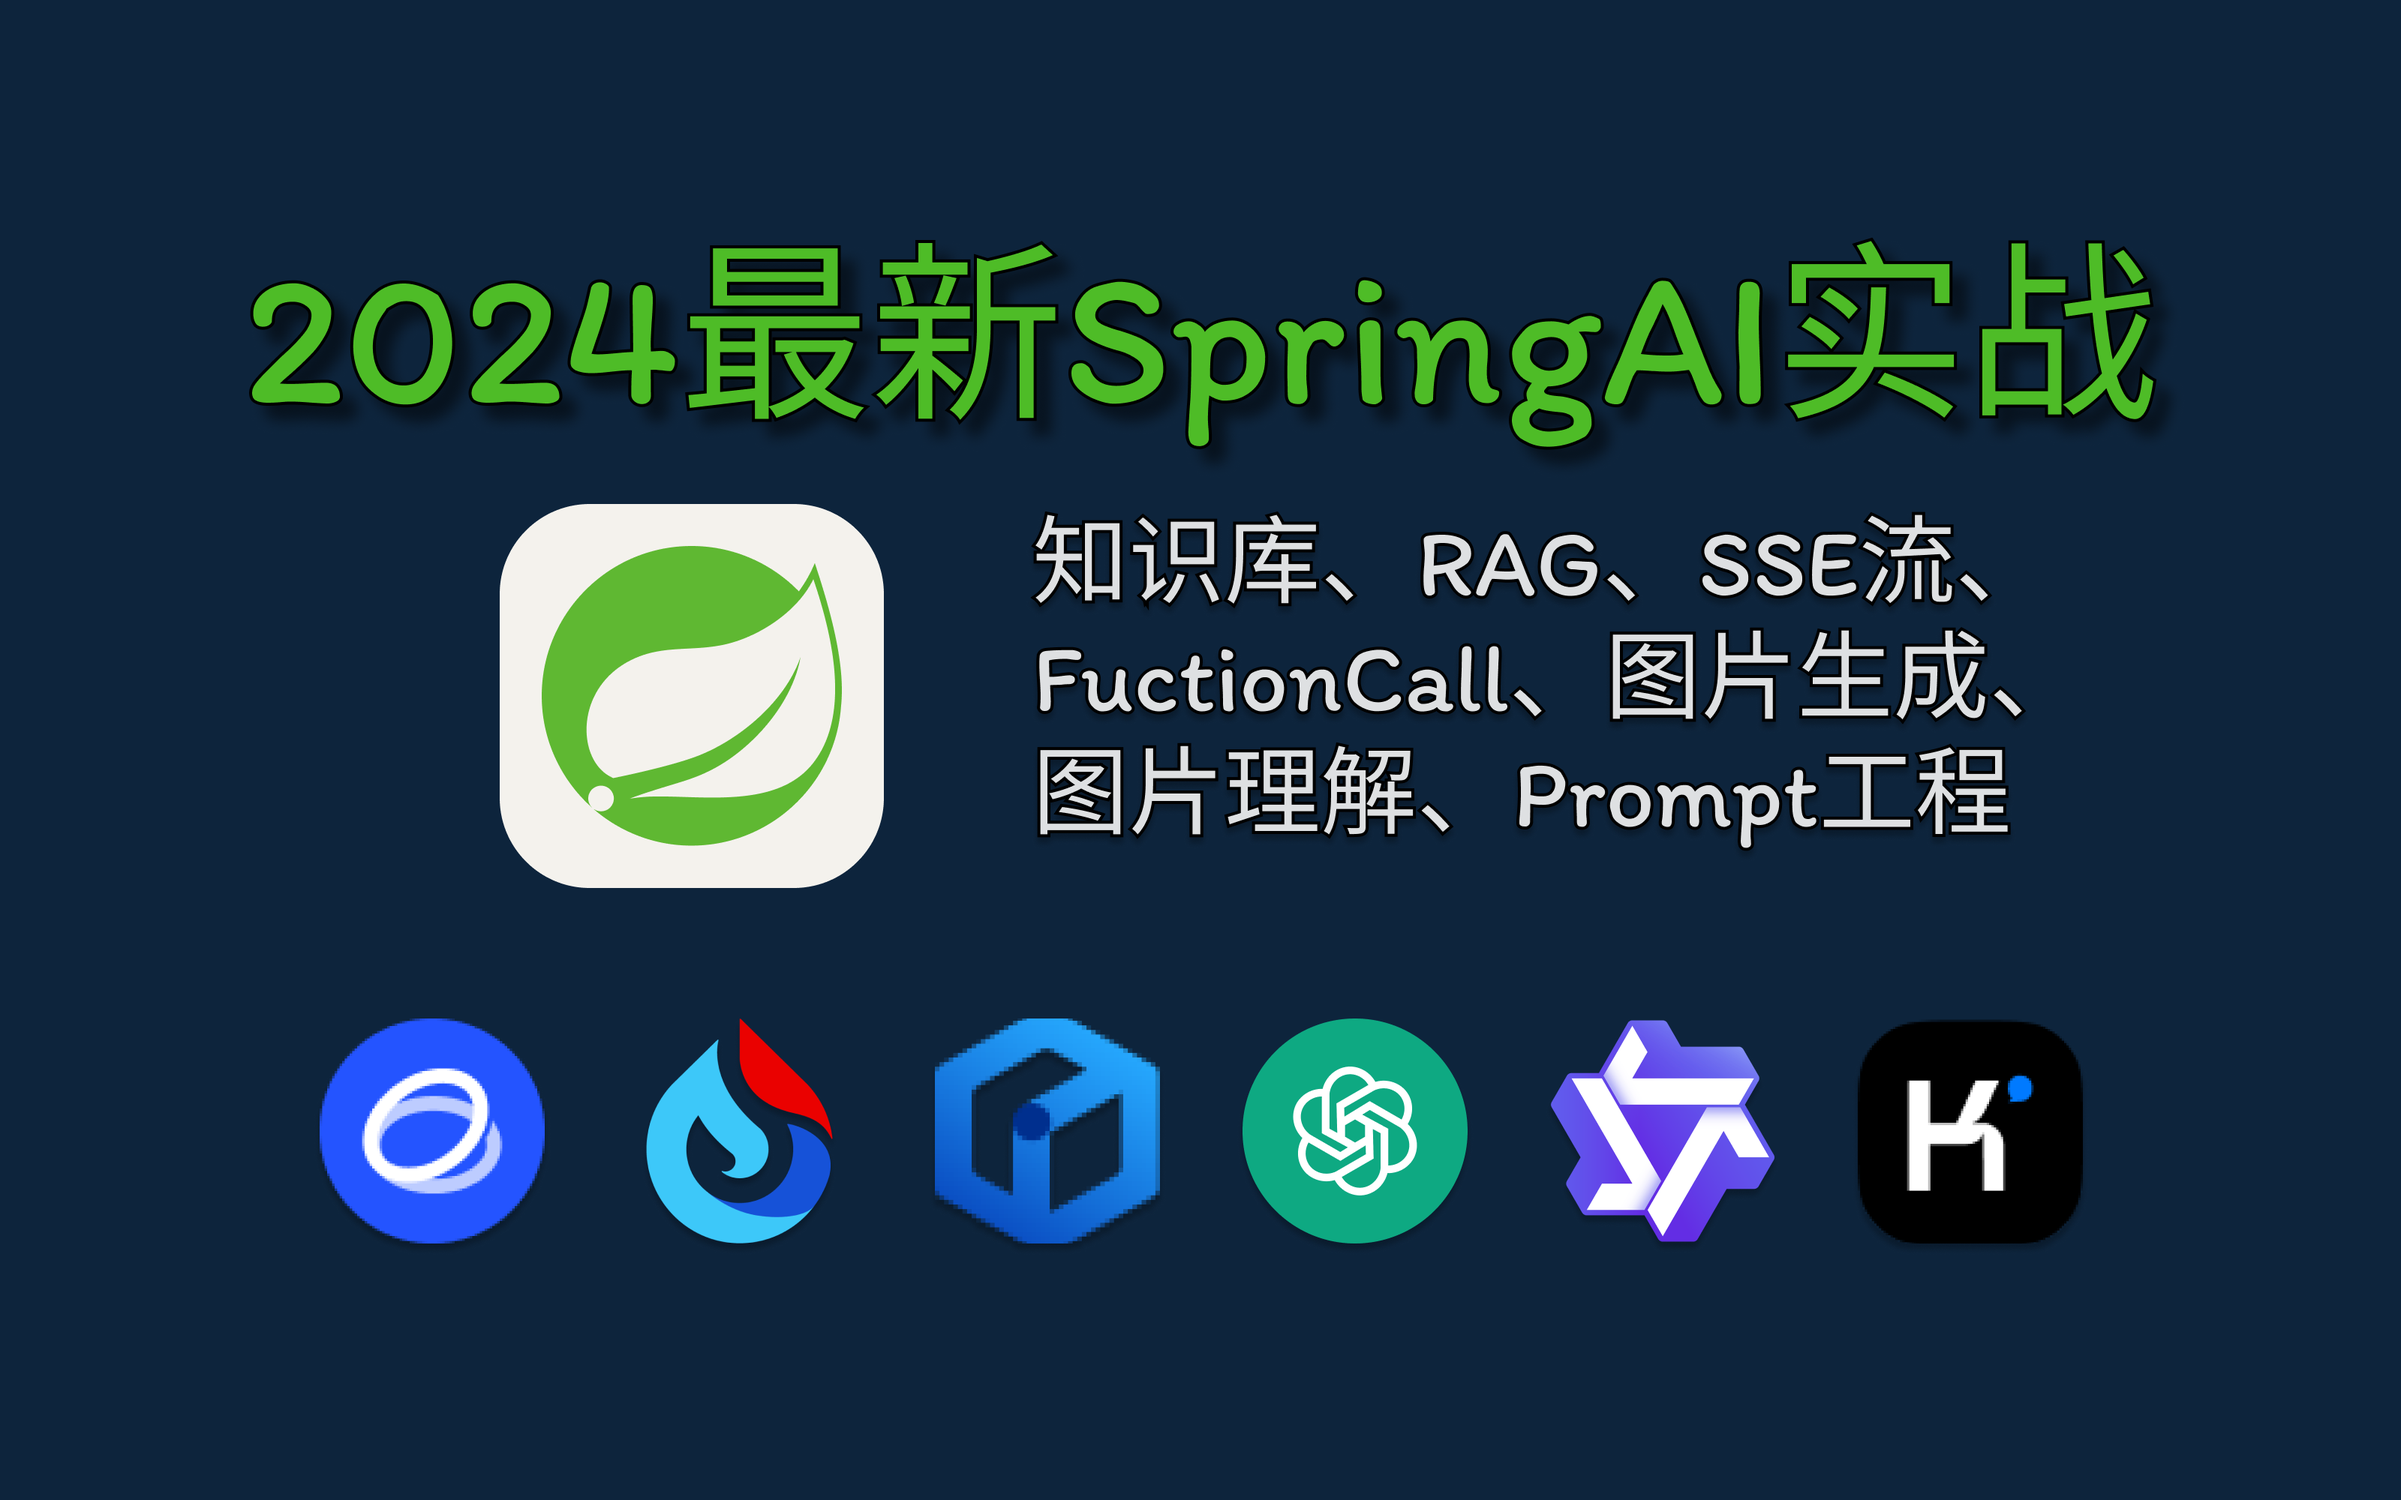
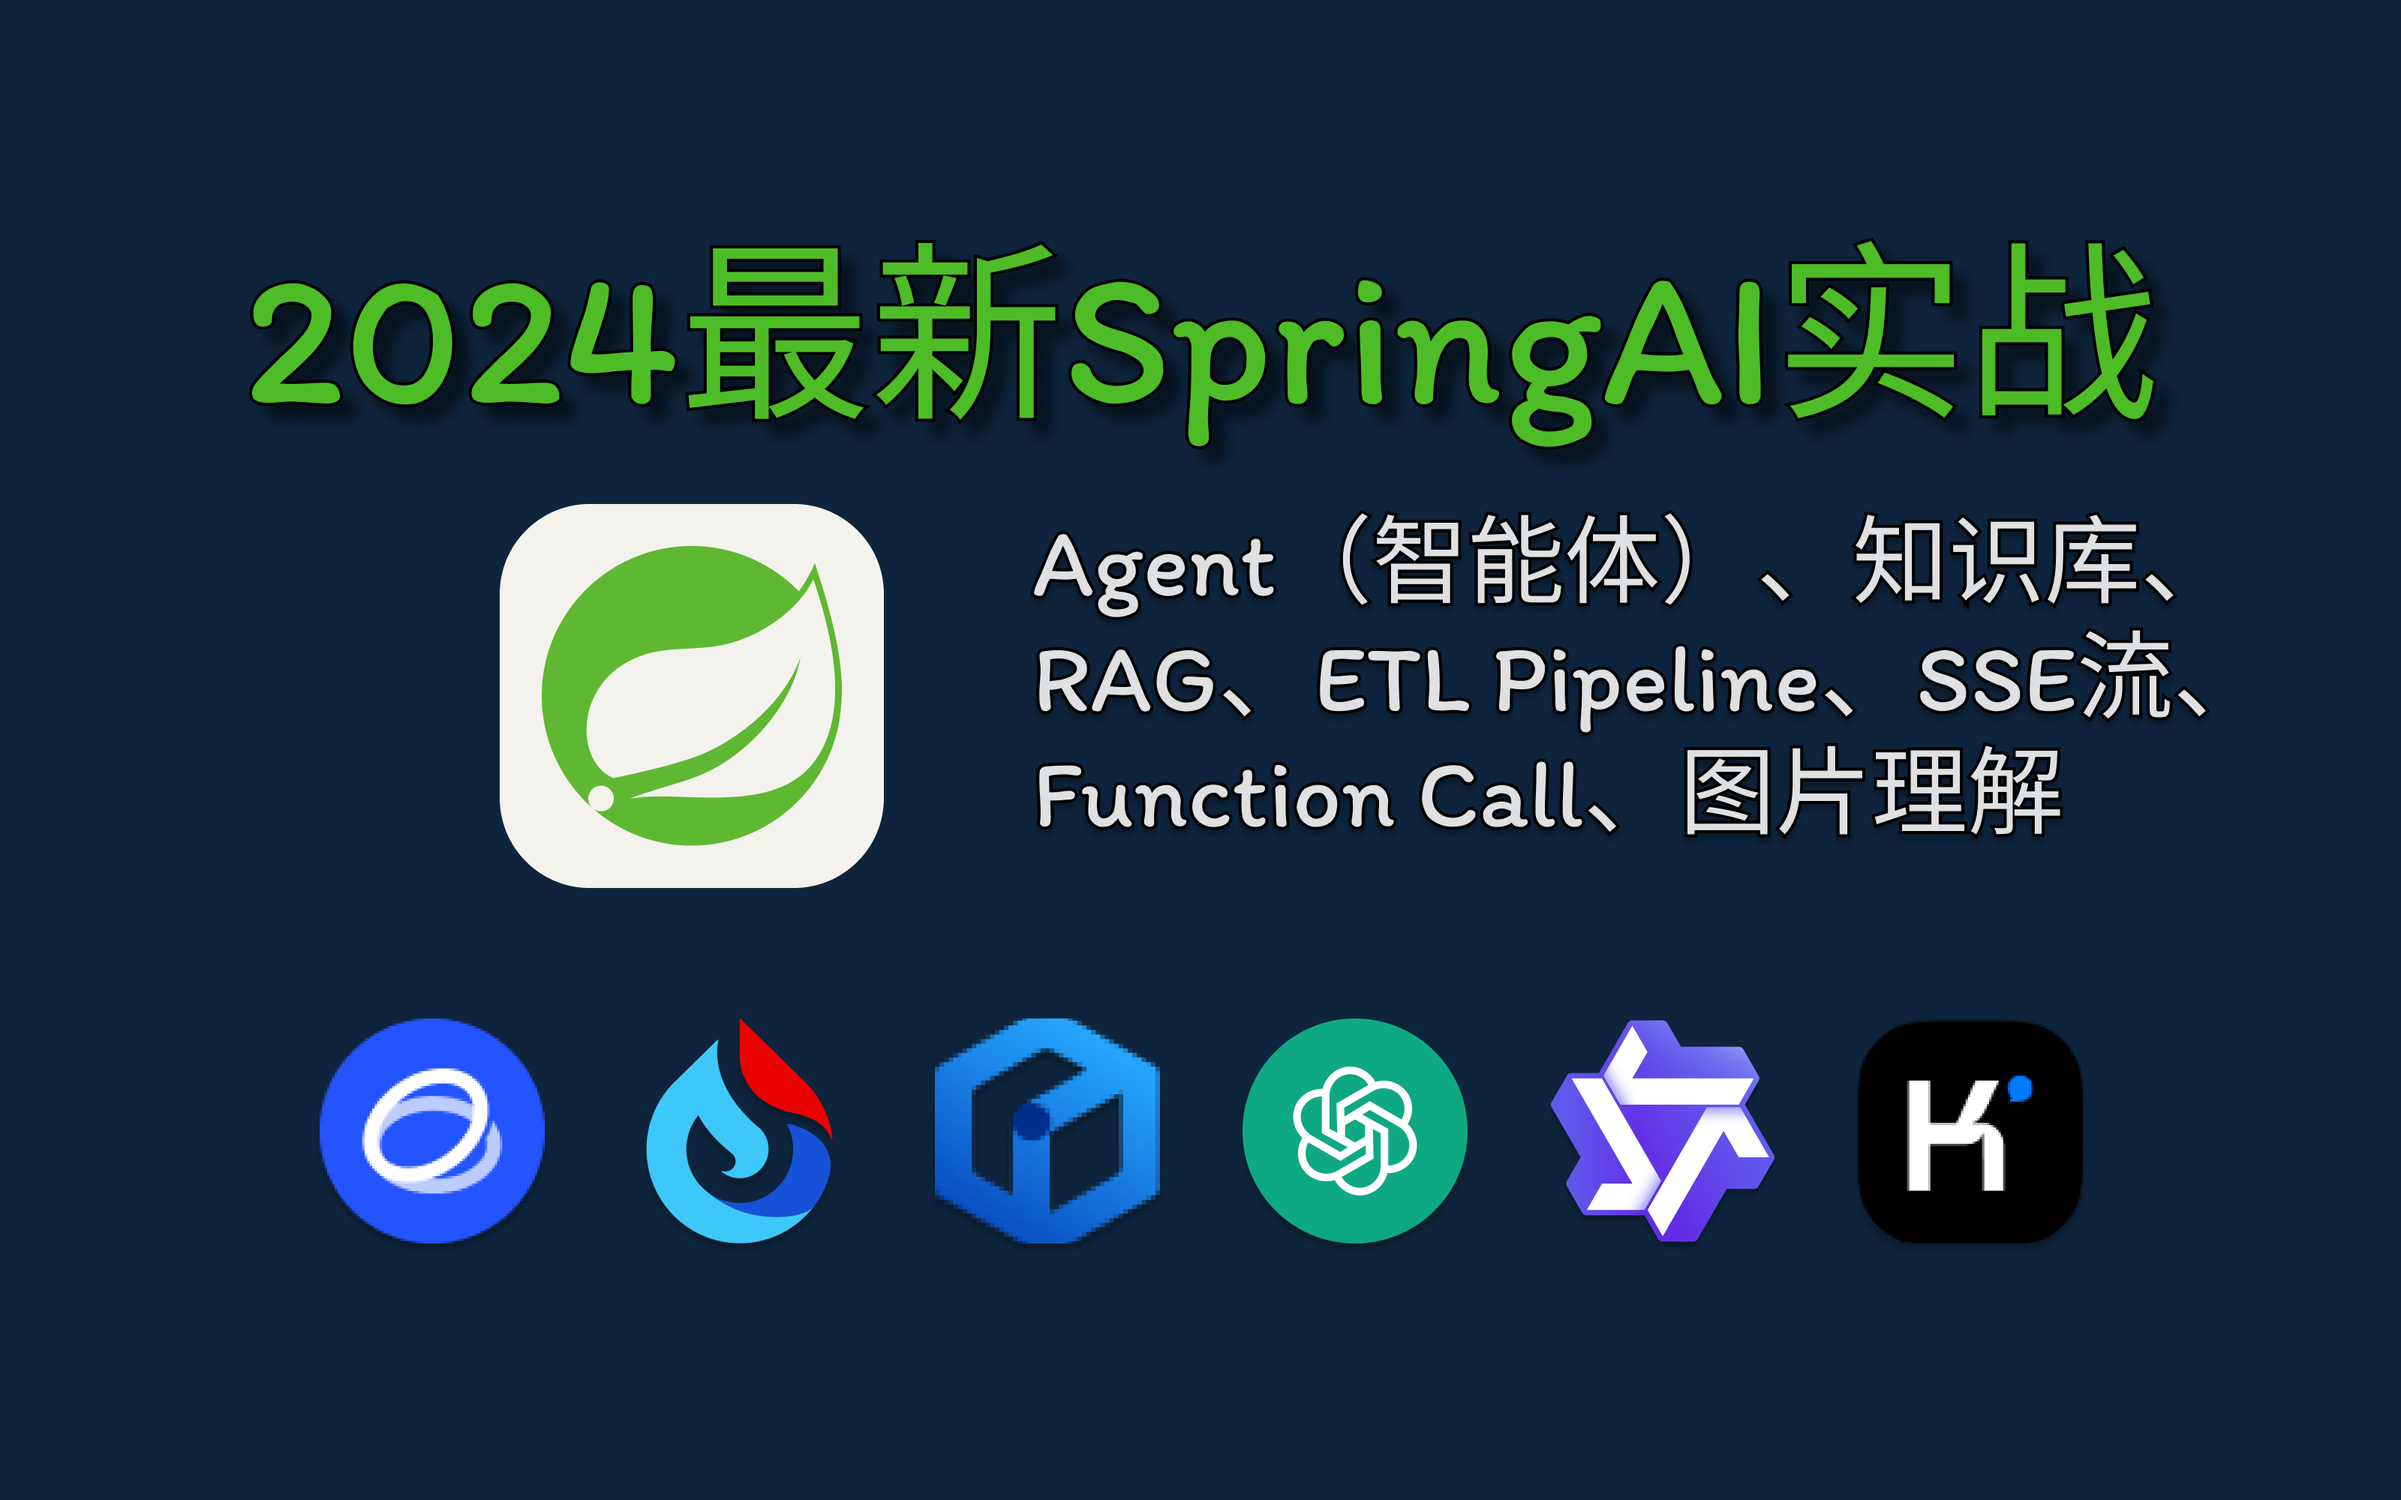
intro

Changed region(s): [[0.4062, 0.341, 0.9375, 0.558]]

diff --git a/src/project/spring-ai/intro.md b/src/project/spring-ai/intro.md
@@ -6,6 +6,8 @@ order: 1
 
 ![项目内容](./cover.png)
 
-本项目是[UNI-AI](../uni-ai/README.md)的讲解版，即SpringAI教程包含SSE流/FuntionCall/Embedding/VectorDatabase/RAG/历史消息/图片生成/图片理解/提示词工程等知识点。UNI集成了各个AI厂家并且实现了文本对话、图片理解、图片生成、知识库、预置角色、插件系统等功能。
+![知识点](SrpingAI知识点.png)
+
+SpringAI教程包含Agent（智能体）/SSE流/FunctionCall/Embedding/VectorDatabase/RAG/历史消息/图片理解/等知识点。
 
 [源码地址](https://github.com/qifan777/KnowledgeBaseChatSpringAI)
